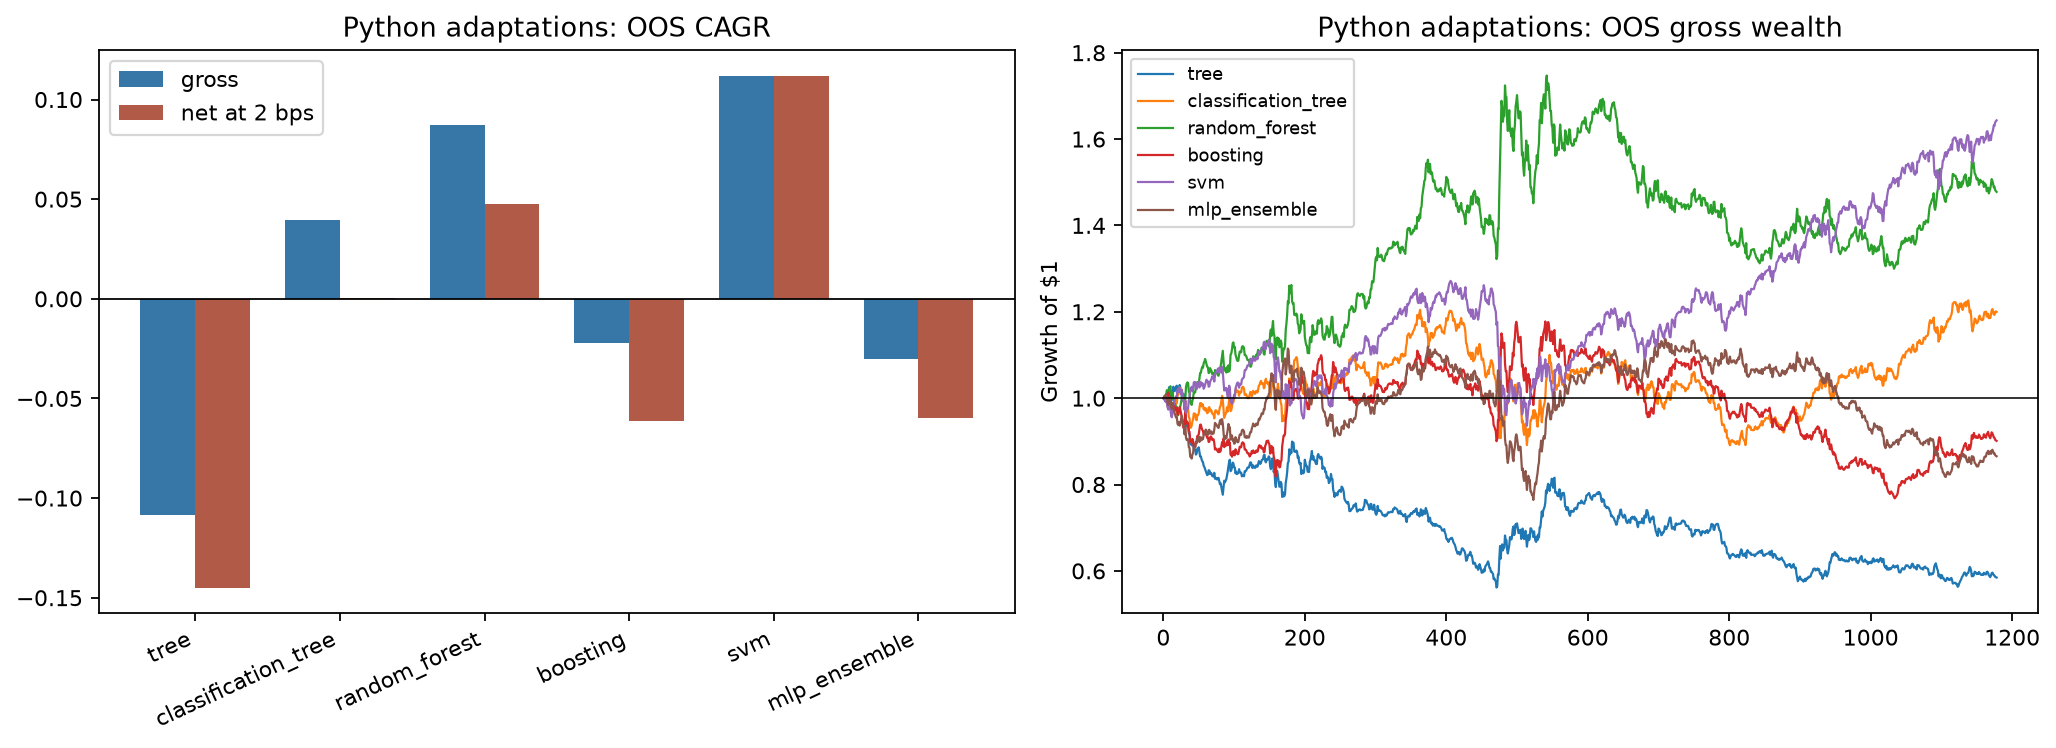
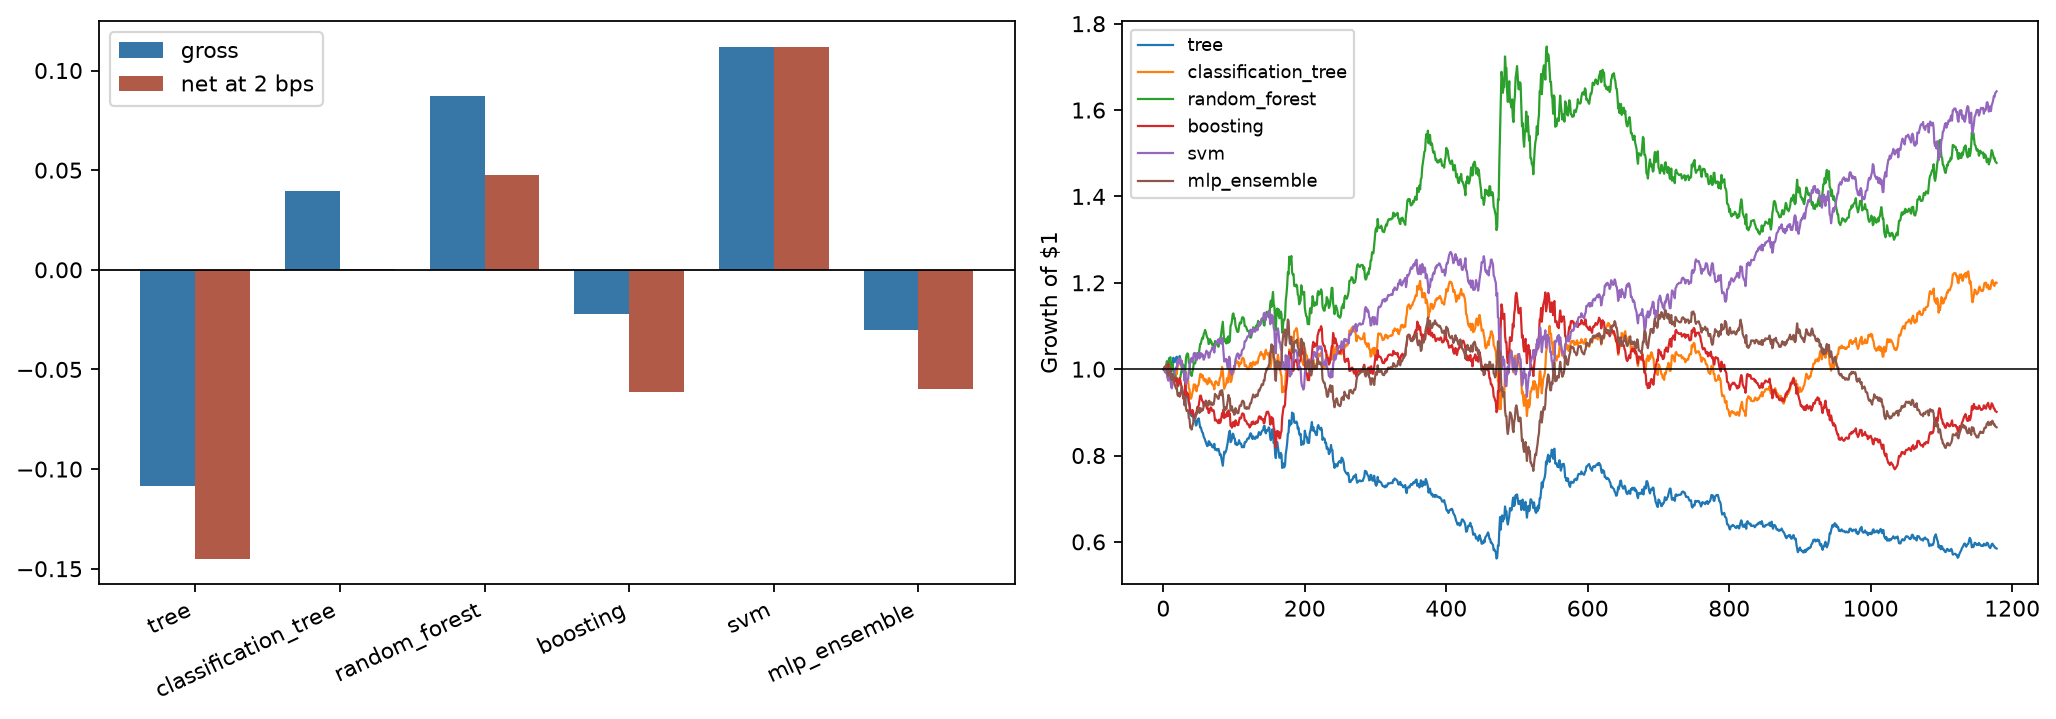
Make ch04 figures pure images and keep their text in the report body (#25)
22개 자산에서 이미지 안에 구워져 있던 제목·캡션·해설문을 제거했다. 그 문구는
대부분 리포트 본문과 중복이었고, 발표 슬라이드로 재사용하기도 어려웠다.

- PNG 3장: 영어 서브플롯 제목 제거. 생성기(run_chapter4_analysis.py)는 건드리지
  않았다 — 해설 노트북이 같은 팩토리를 호출한다. 팩토리가 반환한 Figure 의 제목만
  지워 저장했고, 제목 있는 대조군이 기존 커밋본과 SHA-256 동일해 차이가 제목뿐임이
  증명된다.
- SVG 19장: 하단 해설문 36줄 제거. fig-source-4-8 은 우측 설명 패널 9줄,
  fig-source-4-2 는 사이드 legend 3줄도 제거. viewBox 를 남은 내용 + 10px 로 재조정.
  축·틱·노드 라벨과 화살표 주석은 남겼다.
- report.html 5줄: 본문에 없던 2건만 추가(가로축 읽는 법, hiddenSizes = [2 4 3]).
  나머지는 이미 앞뒤 단락에 있어 삭제했다. PNG alt 3건 수정.
- 기존 결함 2건 동반 수정: fig-gdi.svg 의 GDI 수식 라벨 2.2px 상단 클리핑,
  fig-source-4-3.svg 의 라벨 3개 밀집(x=584 맞닿음, 베이스라인 5.9px 차, 곡선 위).

검증: 22개 자산 브라우저 렌더, 덱 22장 1600x900 + 7장 1366x768, 리포트 1440·390,
A4 PDF 85쪽, 수식 24개 KaTeX 파싱, 형제 SVG 전수 스윕(라벨 겹침 0·halo 없는 선 위
라벨 0), build_site --check, validate-site 50파일 0오류.

diff --git a/html/studies/machine-trading/presentations/2026-08-15-ch04/report.html b/html/studies/machine-trading/presentations/2026-08-15-ch04/report.html
@@ -54,7 +54,7 @@
       <figure class="report-figure" id="fig-chapter-map" data-deck-use="required">
         <figcaption class="asset-caption asset-caption--figure"><span class="asset-caption__chip">그림 1</span><span class="asset-caption__title">약한 학습기 · 무작위성과 검증 · 표본 외 성적 — 이 장을 관통하는 세 칸</span></figcaption>
         <img src="assets/figs/fig-chapter-map.svg" alt="왼쪽 칸에 단계적 회귀, 회귀 트리, 분류 트리, 서포트 벡터 머신, 은닉 마르코프 모델, 신경망 여섯 가지 약한 학습기가 절 번호와 함께 놓이고, 가운데 칸에 교차 검증, 배깅, 무작위 부분공간, 랜덤 포레스트, 재학습과 평균화라는 과적합 억제 장치가 놓이며, 부스팅은 결이 다른 붉은 상자로 따로 표시된다. 오른쪽 칸에는 서포트 벡터 머신 13.3%, 단계적 회귀 10.6%, 배깅 회귀 트리 7.2%, 분류 트리 4.8%, 교차 검증 트리 0.6%라는 표본 외 연평균 성장률이 나열되고, 그 아래 펀더멘털 요인을 쓴 SPX 집계만이 샤프 1.1로 유일하게 기준을 넘었다고 표시된다.">
-        <small class="asset-note">가운데 칸을 어떻게 채우느냐가 오른쪽 칸의 숫자를 만든다. 왼쪽 칸의 학습기만 바꾸는 것으로는 표본 외 성적이 크게 달라지지 않는다는 것이 이 장의 관찰이다. 표본 외 수치는 모두 SPY 예제(학습 2004-12-22~2009-09-15, 테스트 2009-09-16~2014-06-02)의 결과이며, 오른쪽 아래 항목만 SPX 구성 종목 펀더멘털 예제의 결과다. AIML Quant 재구성.</small>
+        <small class="asset-note">가로축은 실행 순서가 아니라 <strong>책임의 이동</strong> 이다. 가운데 칸을 어떻게 채우느냐가 오른쪽 칸의 숫자를 만든다. 왼쪽 칸의 학습기만 바꾸는 것으로는 표본 외 성적이 크게 달라지지 않는다는 것이 이 장의 관찰이다. 표본 외 수치는 모두 SPY 예제(학습 2004-12-22~2009-09-15, 테스트 2009-09-16~2014-06-02)의 결과이며, 오른쪽 아래 항목만 SPX 구성 종목 펀더멘털 예제의 결과다. AIML Quant 재구성.</small>
       </figure>
       <table class="cmp-table" id="table-overview">
         <caption class="cmp-table__caption asset-caption asset-caption--table"><div class="asset-caption__inner"><span class="asset-caption__chip">표 1</span><span class="asset-caption__title">장의 전체 논리 — 질문에서 판단까지</span></div></caption>
@@ -553,7 +553,7 @@ states = backtrace(back, int(delta.argmax()))</code></pre>
       <figure class="report-figure" id="source-figure-4-11" data-deck-use="required" data-source-kind="figure" data-source-ref="4.11">
         <figcaption class="asset-caption asset-caption--figure"><span class="asset-caption__chip">그림 15</span><span class="asset-caption__title">우리 예제를 위한 순방향 신경망</span></figcaption>
         <img src="assets/figs/fig-source-4-11.svg" alt="왼쪽에 x1부터 x4까지 네 개의 입력 노드가 있고, 이어서 뉴런 2개의 은닉층 1, 뉴런 4개의 은닉층 2, 뉴런 3개의 은닉층 3이 차례로 놓이며 모든 노드가 다음 층의 모든 노드와 선으로 연결된다. 은닉층 노드에는 시그마 화살표 S라고 적혀 있고 마지막 출력층에는 선형이라고 적힌 노드 하나가 있어 스칼라 y를 낸다.">
-        <small class="asset-note">한 노드에서 다음 층으로 뻗는 선의 개수를 세어 보면 가중치의 수가 층을 지날 때마다 어떻게 불어나는지 보인다. 가중치로 곱하고 성분들을 합산하고 시그모이드로 변환하는 이 연산이 층마다 반복된다. 출력이 벡터라면 그 차원만큼 출력층 노드가 있게 된다. 시그모이드를 몇 겹으로 쌓을지, 각각에 얼마나 가중치를 줄지, 한 함수의 출력을 다른 함수의 입력에 어떻게 이을지는 오직 학습셋에 대한 실험과 최적화로만 정할 수 있다. AIML Quant 재구성.</small>
+        <small class="asset-note">한 노드에서 다음 층으로 뻗는 선의 개수를 세어 보면 가중치의 수가 층을 지날 때마다 어떻게 불어나는지 보인다. 그림의 구조는 <code>hiddenSizes = [2 4 3]</code> 에 해당한다. 가중치로 곱하고 성분들을 합산하고 시그모이드로 변환하는 이 연산이 층마다 반복된다. 출력이 벡터라면 그 차원만큼 출력층 노드가 있게 된다. 시그모이드를 몇 겹으로 쌓을지, 각각에 얼마나 가중치를 줄지, 한 함수의 출력을 다른 함수의 입력에 어떻게 이을지는 오직 학습셋에 대한 실험과 최적화로만 정할 수 있다. AIML Quant 재구성.</small>
       </figure>
 
       <h2 id="source-section-4-10-2" data-source-kind="section" data-source-ref="4.10.2">가장 단순한 네트워크부터 — 그리고 과적합과의 싸움</h2>
@@ -831,7 +831,7 @@ uv run python $CH4/run_chapter4_analysis.py --offline</code></pre>
       </table>
       <figure class="report-figure" id="fig-book-replays" data-deck-use="required">
         <figcaption class="asset-caption asset-caption--figure"><span class="asset-caption__chip">그림 20</span><span class="asset-caption__title">원본 충실 재현 네 실험의 자산곡선 — 학습에서 벌어진 격차가 표본 외에서 주저앉는다</span></figcaption>
-        <img src="assets/figs/fig-book-replays.png" alt="두 개의 패널로 나뉜 선 그래프다. 왼쪽 패널 제목은 Book-faithful train replay 이며 2005년부터 2009년까지 1달러의 성장을 그린다. 네 곡선 Linear, Stepwise, Tree rule, HMM 이 2008년 말까지 완만하다가 2008년 하반기부터 급격히 치솟아 학습 구간 끝에서 Stepwise 가 약 6.5배로 가장 높고 Linear 가 약 5배, Tree rule 이 약 3.7배, HMM 이 약 1.8배에 도달한다. 오른쪽 패널 제목은 Book-faithful out-of-sample replay 이며 2010년부터 2014년까지 같은 네 곡선을 그린다. 세로축 범위가 0.8에서 1.6으로 훨씬 좁아졌고, Stepwise 만 1.6배 부근까지 올라가 유지되며 Tree rule 은 1.2배 부근에서 평평해지고 Linear 는 한때 1.3배까지 올랐다가 1.0 근처로 되돌아오며 HMM 은 대부분의 구간에서 1.0 아래에 머물다 0.85까지 내려간다.">
+        <img src="assets/figs/fig-book-replays.png" alt="두 개의 패널로 나뉜 선 그래프다. 왼쪽 패널은 학습 구간의 재현으로 2005년부터 2009년까지 1달러의 성장을 그린다. 범례에 표시된 네 곡선 Linear, Stepwise, Tree rule, HMM 이 2008년 말까지 완만하다가 2008년 하반기부터 급격히 치솟아 학습 구간 끝에서 Stepwise 가 약 6.5배로 가장 높고 Linear 가 약 5배, Tree rule 이 약 3.7배, HMM 이 약 1.8배에 도달한다. 오른쪽 패널은 표본 외 구간의 재현으로 2010년부터 2014년까지 같은 네 곡선을 그린다. 세로축 범위가 0.8에서 1.6으로 훨씬 좁아졌고, Stepwise 만 1.6배 부근까지 올라가 유지되며 Tree rule 은 1.2배 부근에서 평평해지고 Linear 는 한때 1.3배까지 올랐다가 1.0 근처로 되돌아오며 HMM 은 대부분의 구간에서 1.0 아래에 머물다 0.85까지 내려간다.">
         <small class="asset-note">같은 네 색을 <strong>왼쪽에서 오른쪽으로 따라가며 순위가 어떻게 바뀌는지</strong> 보는 그림이다. 학습 구간에서는 네 곡선이 모두 크게 벌어지지만, 세로축 눈금이 6.5배에서 1.6배로 바뀐 오른쪽에서는 Stepwise 를 뺀 나머지가 사실상 제자리다. HMM 곡선이 1.0 아래에서 끝나는 것이 <a class="asset-ref" href="#table-exact-replay">표 14</a> 마지막 행의 음수 CAGR 이며, 바로 아래에서 다루는 본문·코드 불일치의 시각적 근거다. AIML Quant 가 <code>run_chapter4_analysis.py</code> 로 재현한 결과이며 교재에 실린 그림이 아니다.</small>
       </figure>
       <div class="callout--insight"><span class="callout__kicker">확인된 불일치 하나</span><div class="callout__body"><p>마지막 행을 눈여겨볼 필요가 있다. 교재 본문은 HMM 의 테스트셋 성과를 "CAGR 이 1퍼센트에 그쳤다"고 서술하지만, 저자가 배포한 <code>hmm_test.m</code> 102번째 줄의 출력 주석은 <code>Out-of-sample: CAGR=-0.010173</code>, 즉 <strong>음의 1.0퍼센트</strong> 를 기록하고 있다. 재현 결과도 이 코드 주석과 일치한다. 부호가 다르므로 "표본 외에서 소폭 플러스"와 "표본 외에서 소폭 마이너스"라는 서로 다른 결론이 되며, HMM 이 이 장에서 가장 약한 결과 중 하나라는 점은 어느 쪽으로 읽어도 달라지지 않는다. 발표에서 이 수치를 인용할 때는 어느 출처의 값인지 밝히기를 권한다.</p></div></div>
@@ -852,13 +852,13 @@ uv run python $CH4/run_chapter4_analysis.py --offline</code></pre>
       </ul>
       <figure class="report-figure" id="fig-python-models" data-deck-use="required">
         <figcaption class="asset-caption asset-caption--figure"><span class="asset-caption__chip">그림 22</span><span class="asset-caption__title">Python 적응 여섯 모델의 표본 외 성과 — 비용을 붙이면 순위가 바뀐다</span></figcaption>
-        <img src="assets/figs/fig-python-models.png" alt="두 개의 패널이다. 왼쪽 막대그래프 제목은 Python adaptations: OOS CAGR 이고 여섯 모델 tree, classification_tree, random_forest, boosting, svm, mlp_ensemble 마다 gross 와 net at 2 bps 두 막대를 나란히 그린다. tree 는 마이너스 0.108에서 마이너스 0.145로 가장 낮고, classification_tree 는 0.040에서 거의 0으로 줄며, random_forest 는 0.087에서 0.048로 절반 가까이 깎이고, boosting 은 마이너스 0.021에서 마이너스 0.061로 내려가며, svm 은 0.112에서 0.112로 두 막대의 높이가 거의 같고, mlp_ensemble 은 마이너스 0.030에서 마이너스 0.059로 내려간다. 오른쪽 선그래프 제목은 Python adaptations: OOS gross wealth 이고 가로축은 0에서 1200까지의 거래일, 세로축은 1달러의 성장이다. random_forest 가 중반에 1.75까지 올랐다가 1.5 부근에서 끝나고 svm 이 꾸준히 올라 1.65 부근에서 끝나며, classification_tree 는 1.2 부근, boosting 과 mlp_ensemble 은 0.9 아래, tree 는 0.6 부근까지 내려간다.">
+        <img src="assets/figs/fig-python-models.png" alt="두 개의 패널이다. 왼쪽 막대그래프는 여섯 모델의 표본 외 CAGR 로, tree, classification_tree, random_forest, boosting, svm, mlp_ensemble 마다 범례의 gross 와 net at 2 bps 두 막대를 나란히 그린다. tree 는 마이너스 0.108에서 마이너스 0.145로 가장 낮고, classification_tree 는 0.040에서 거의 0으로 줄며, random_forest 는 0.087에서 0.048로 절반 가까이 깎이고, boosting 은 마이너스 0.021에서 마이너스 0.061로 내려가며, svm 은 0.112에서 0.112로 두 막대의 높이가 거의 같고, mlp_ensemble 은 마이너스 0.030에서 마이너스 0.059로 내려간다. 오른쪽 선그래프는 같은 여섯 모델의 표본 외 총수익 자산곡선으로, 가로축은 0에서 1200까지의 거래일, 세로축은 1달러의 성장이다. random_forest 가 중반에 1.75까지 올랐다가 1.5 부근에서 끝나고 svm 이 꾸준히 올라 1.65 부근에서 끝나며, classification_tree 는 1.2 부근, boosting 과 mlp_ensemble 은 0.9 아래, tree 는 0.6 부근까지 내려간다.">
         <small class="asset-note">왼쪽에서 <strong>두 막대의 높이 차이</strong> 가 곧 회전율 비용이다. svm 은 두 막대가 붙어 있어 비용에 거의 무감하고, random_forest 는 8.7%에서 4.8%로 절반 가까이 깎이며, classification_tree 는 4.0%에서 0에 붙어 사실상 전부를 비용으로 낸다. 위 목록에 없는 <code>tree</code> 막대는 잎 크기 하한만 둔 단일 회귀 트리로, 앙상블을 씌우기 전의 출발점이 얼마나 나쁜지를 보여 준다. 오른쪽 곡선의 가로축은 날짜가 아니라 표본 외 거래일 번호다. AIML Quant 가 현대적 라이브러리로 다시 구현한 별도 실험이며, <a class="asset-ref" href="#table-exact-replay">표 14</a> 의 MATLAB 수치와 직접 비교하지 않는다.</small>
       </figure>
       <p>이 여섯 숫자를 그대로 믿기 전에 마지막으로 확인한 것이 있다. 위 신경망 값은 시드 하나의 결과가 아니라 열 개를 평균한 것인데, 그 열 개가 서로 얼마나 다른지를 따로 그려 보았다.</p>
       <figure class="report-figure" id="fig-seed-stability" data-deck-use="required">
         <figcaption class="asset-caption asset-caption--figure"><span class="asset-caption__chip">그림 23</span><span class="asset-caption__title">난수 시드 하나로 신경망의 부호가 바뀐다 — 그리고 커널 선택은 거의 무의미하다</span></figcaption>
-        <img src="assets/figs/fig-seed-stability.png" alt="두 개의 패널이다. 왼쪽 막대그래프 제목은 MLP seed sensitivity 이고 가로축은 1부터 10까지의 난수 시드, 세로축은 표본 외 CAGR 이다. 시드 8이 약 0.138로 가장 높고 시드 9가 0.050, 시드 6이 0.035, 시드 5와 7이 0.019, 시드 3이 0.017로 양수인 반면, 시드 10이 약 마이너스 0.060, 시드 1이 마이너스 0.056, 시드 2가 마이너스 0.044, 시드 4가 마이너스 0.012로 음수다. 열 개 중 여섯 개가 양수, 네 개가 음수로 부호가 갈린다. 오른쪽 막대그래프 제목은 SVM kernel selection on train only 이고 세로축은 평균 시계열 교차검증 정확도로 0.450에서 0.650까지다. linear 가 0.532, polynomial 이 0.541, rbf 가 0.535로 세 막대의 높이가 거의 같다.">
+        <img src="assets/figs/fig-seed-stability.png" alt="두 개의 패널이다. 왼쪽 막대그래프는 신경망의 난수 시드 민감도로, 가로축은 1부터 10까지의 난수 시드, 세로축은 표본 외 CAGR 이다. 시드 8이 약 0.138로 가장 높고 시드 9가 0.050, 시드 6이 0.035, 시드 5와 7이 0.019, 시드 3이 0.017로 양수인 반면, 시드 10이 약 마이너스 0.060, 시드 1이 마이너스 0.056, 시드 2가 마이너스 0.044, 시드 4가 마이너스 0.012로 음수다. 열 개 중 여섯 개가 양수, 네 개가 음수로 부호가 갈린다. 오른쪽 막대그래프는 학습셋만으로 수행한 SVM 커널 선택으로, 세로축은 평균 시계열 교차검증 정확도이며 0.450에서 0.650까지다. linear 가 0.532, polynomial 이 0.541, rbf 가 0.535로 세 막대의 높이가 거의 같다.">
         <small class="asset-note">왼쪽에서 볼 것은 개별 막대의 높이가 아니라 <strong>0선을 넘나든다는 사실</strong> 이다. 같은 데이터·같은 구조·같은 하이퍼파라미터인데 난수 시드만 바꾸면 표본 외 CAGR 이 −6.0%에서 +13.8%까지 움직이고 부호까지 바뀐다. 신경망을 한 번 돌려 얻은 수치는 그 자체로는 근거가 되지 못하며, 위 목록의 −3.04%도 이 열 개를 평균해 얻은 값이라는 뜻이다. 오른쪽은 세 커널의 교차검증 정확도가 모두 0.53 부근에 몰려 있음을 보여 준다 — 커널을 고르는 일이 이 문제에서는 성과를 가르지 않는다. 정확도 기준선이 0.5라는 점도 함께 읽어야 한다. AIML Quant 재현 감사 결과이며 교재의 서술이 아니다.</small>
       </figure>
       <div class="callout--hero"><span class="callout__kicker">이 감사에서 남길 한 문장</span><span class="callout__body">Chapter 4 의 가장 재사용 가능한 결론은 <strong>"더 복잡한 AI"가 아니라 "더 엄격한 정보 경계"</strong> 다. 같은 수치라도 원본 재현과 방법론 적응은 한 표의 서로 다른 행으로 분리해야 한다.</span></div>
